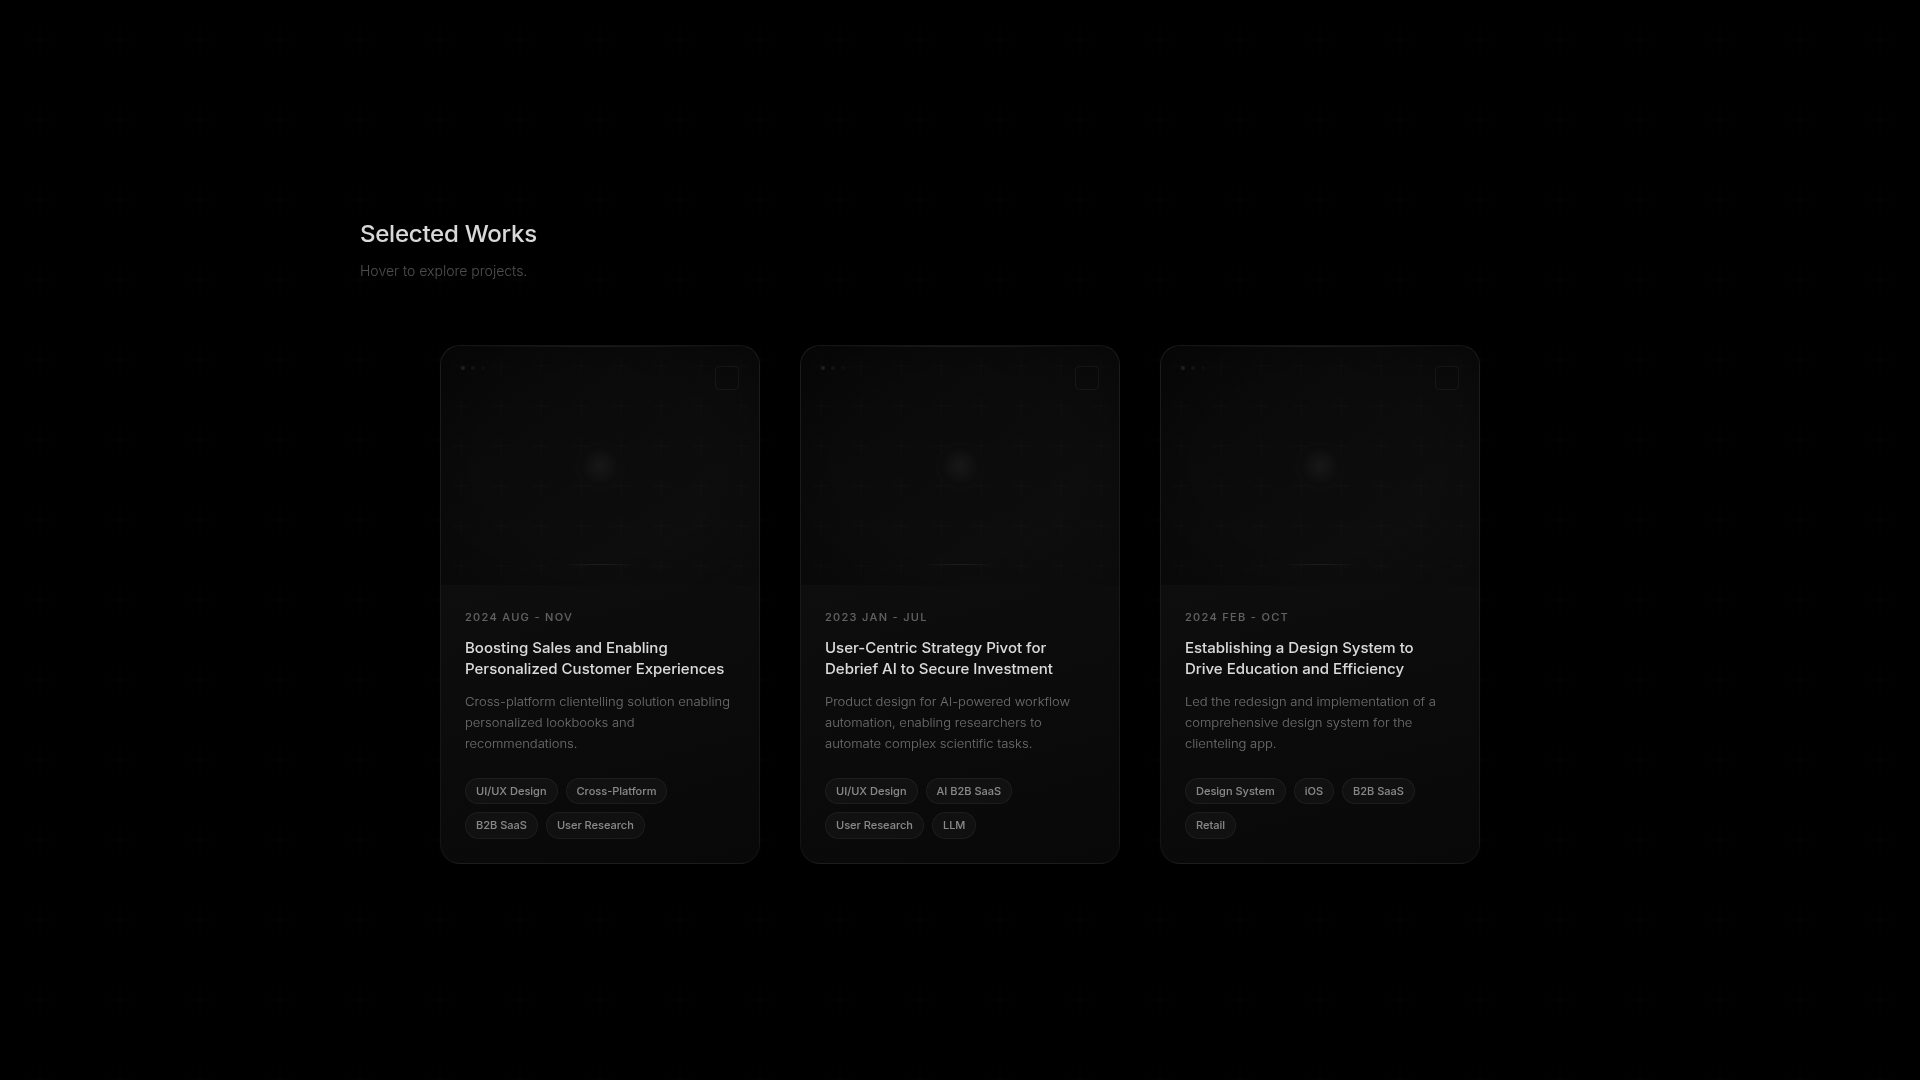
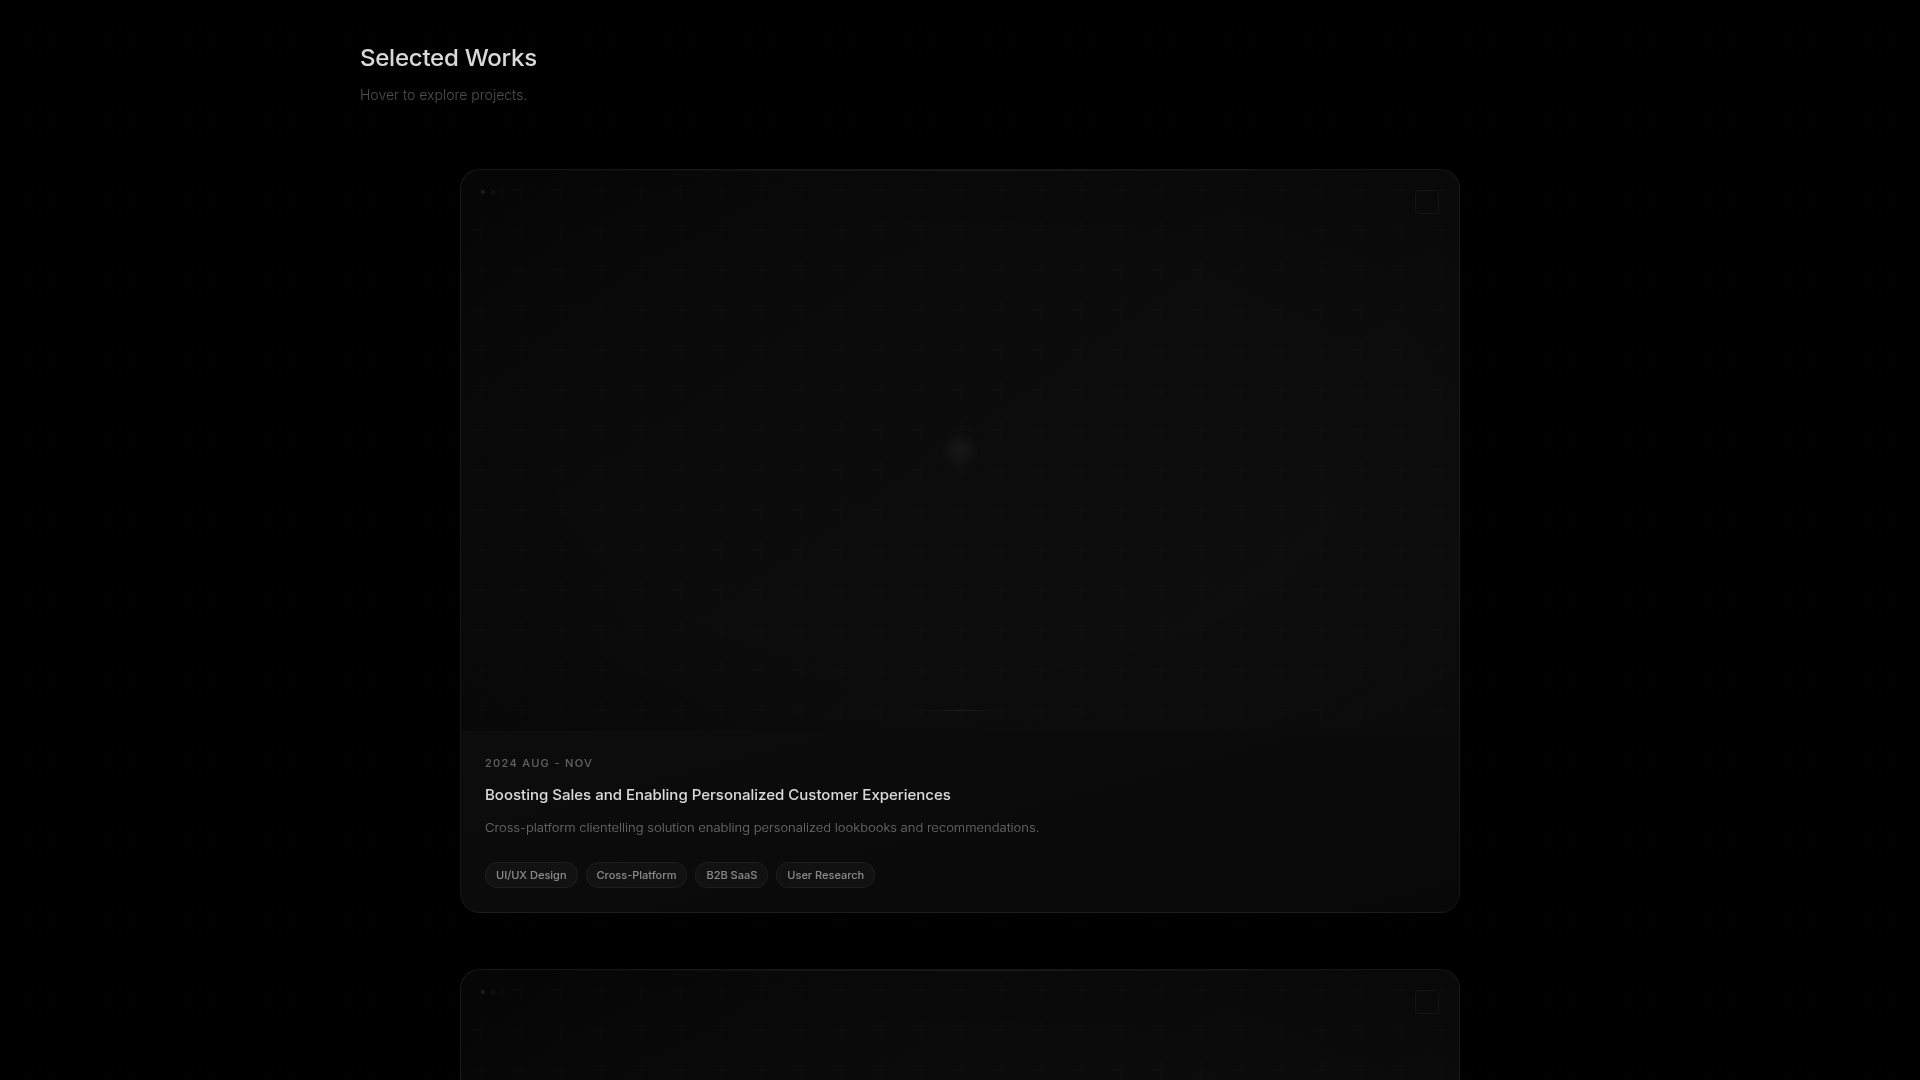
Make project cards larger and stack them vertically
Update TiltStack component to use flex column layout, increase card width to 100% (max 1000px), change thumbnail aspect ratio to 16:9, and adjust card spacing.

Replit-Commit-Author: Agent
Replit-Commit-Session-Id: c0982322-0e7c-4929-8baf-d1b960be61bd
Replit-Commit-Checkpoint-Type: full_checkpoint
Replit-Commit-Event-Id: 0f847aaa-b083-4916-a386-c64e4e90c5c9
Replit-Commit-Screenshot-Url: https://storage.googleapis.com/screenshot-production-us-central1/5a25a198-8e8f-4f64-b379-6fbe4fcce09e/c0982322-0e7c-4929-8baf-d1b960be61bd/ggiEiC9
Replit-Helium-Checkpoint-Created: true

diff --git a/artifacts/mockup-sandbox/src/components/mockups/product-cards/TiltStack.tsx b/artifacts/mockup-sandbox/src/components/mockups/product-cards/TiltStack.tsx
@@ -40,7 +40,7 @@ function LuminousCard({ project }: { project: typeof PROJECTS[0] }) {
   };
 
   return (
-    <div style={{ width: 320, flexShrink: 0 }}>
+    <div style={{ width: '100%', maxWidth: 1000 }}>
       <div style={{ position: 'relative' }}>
         {/* Ambient shadow */}
         <div
@@ -75,7 +75,7 @@ function LuminousCard({ project }: { project: typeof PROJECTS[0] }) {
           <div className="luminous-overlay" />
 
           {/* Thumbnail */}
-          <div className="card-thumbnail" style={{ aspectRatio: '4/3' }}>
+          <div className="card-thumbnail" style={{ aspectRatio: '16/9' }}>
             <div
               style={{
                 position: 'absolute', inset: 0, opacity: 0.04,
@@ -185,10 +185,10 @@ export function TiltStack() {
           </p>
         </div>
         <div style={{
-          display: 'grid',
-          gridTemplateColumns: 'repeat(3, 320px)',
-          gap: 40,
-          justifyContent: 'center',
+          display: 'flex',
+          flexDirection: 'column',
+          alignItems: 'center',
+          gap: 56,
         }}>
           {PROJECTS.map((project) => (
             <LuminousCard key={project.id} project={project} />

diff --git a/artifacts/mockup-sandbox/src/components/mockups/product-cards/_tilt.css b/artifacts/mockup-sandbox/src/components/mockups/product-cards/_tilt.css
@@ -2,7 +2,7 @@
 
 .luminous-card {
   position: relative;
-  width: 320px;
+  width: 100%;
   box-sizing: border-box;
   background: linear-gradient(165deg, #111111 0%, #0c0c0c 60%, #080808 100%);
   border: 1px solid rgba(255, 255, 255, 0.05);
